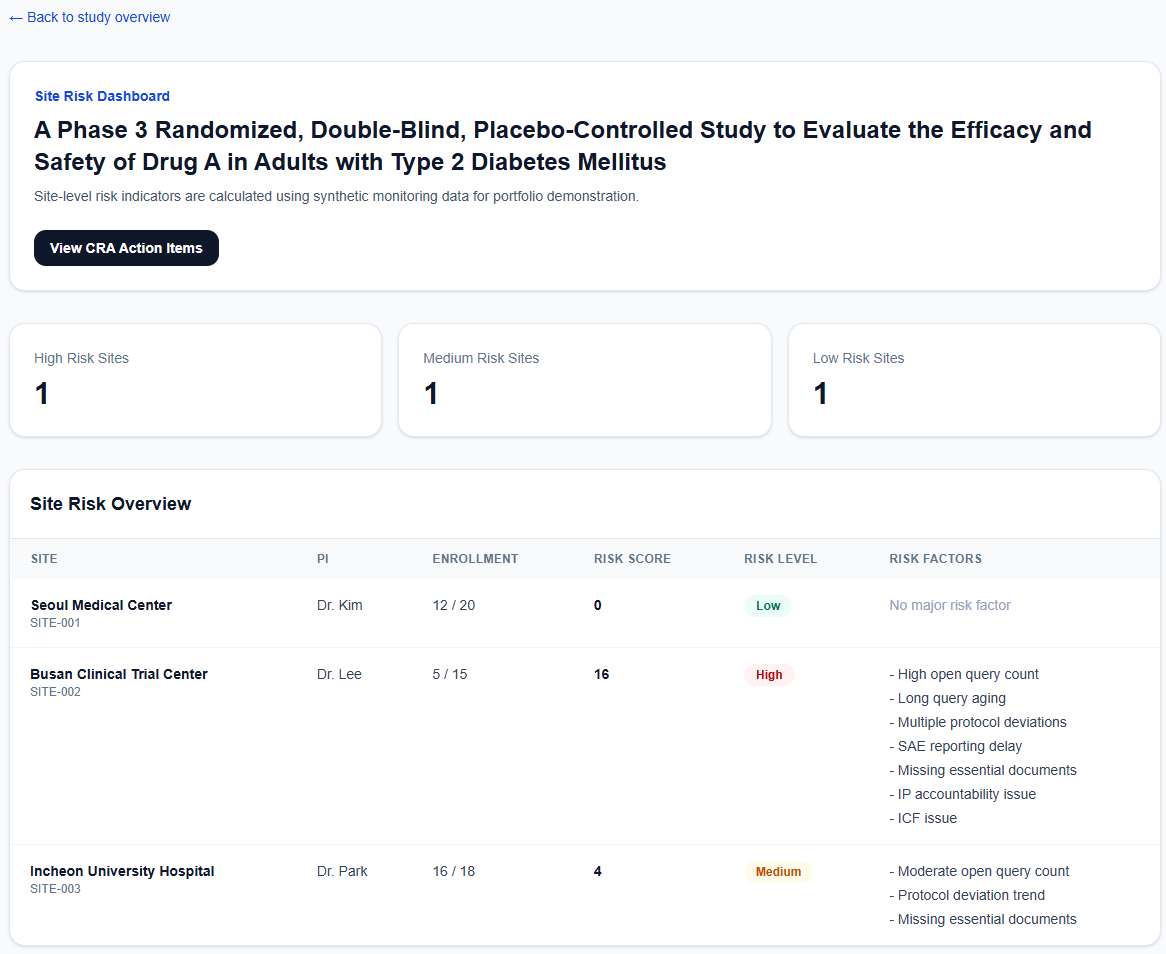
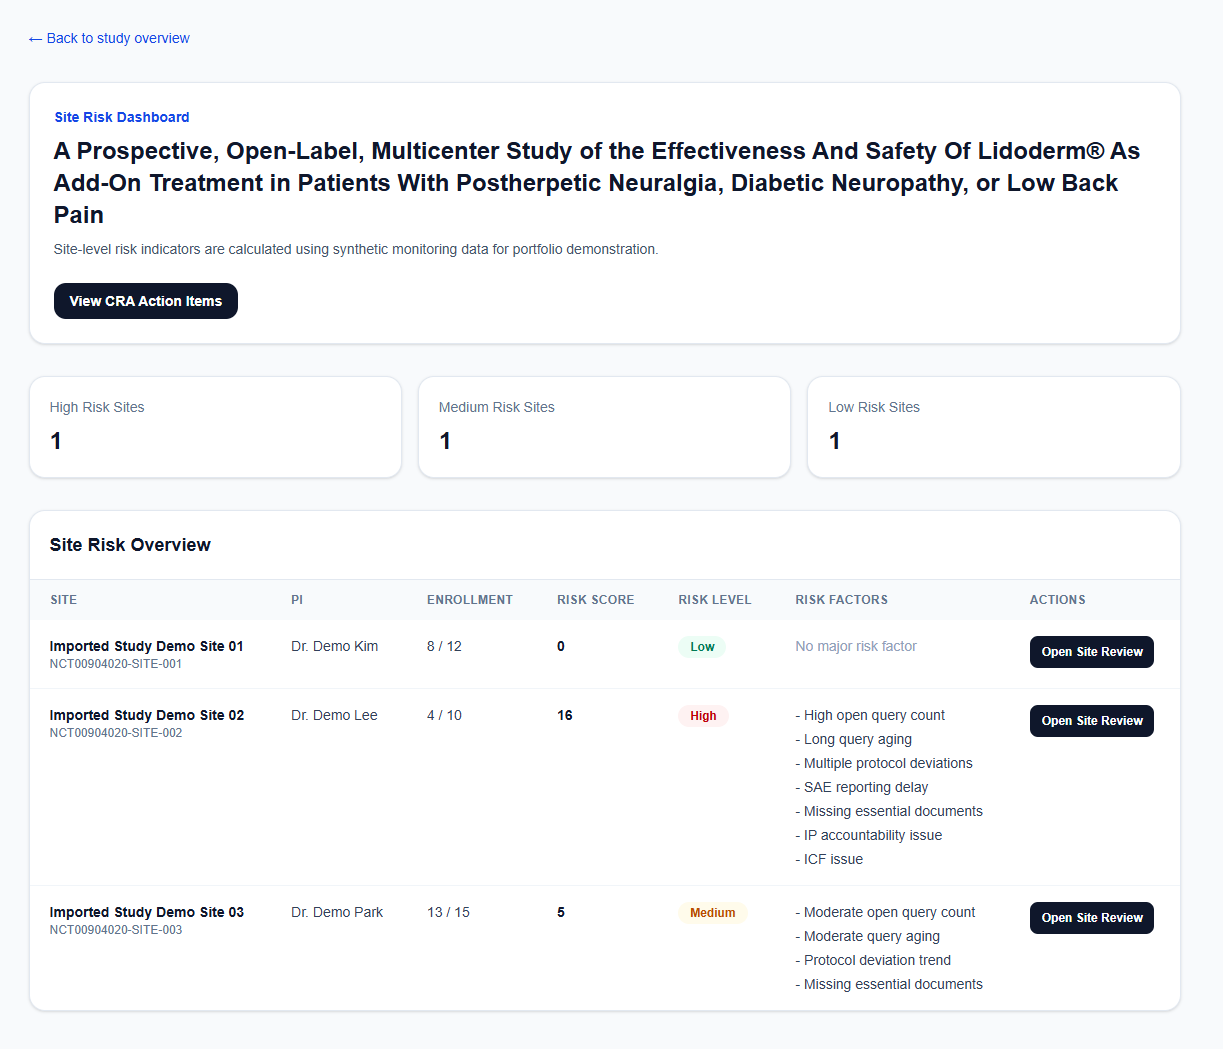
add live demo links and screenshots

diff --git a/frontend/src/app/login/page.tsx b/frontend/src/app/login/page.tsx
@@ -87,6 +87,15 @@ export default function LoginPage() {
 						sign-in.
 					</p>
 
+					<p className="mt-3 rounded-xl border border-slate-200 bg-slate-50 px-4 py-3 text-sm leading-6 text-slate-700">
+						<strong className="font-semibold text-slate-900">
+							New here?
+						</strong>{" "}
+						You can sign up on this page. Enter your email and password above,
+						then click <strong className="font-semibold">Sign up</strong>. If
+						email confirmation is enabled, check your inbox before signing in.
+					</p>
+
 					<form onSubmit={handleSignIn} className="mt-6 space-y-4">
 						<div>
 							<label className="mb-1 block text-sm font-medium text-slate-700">

diff --git a/README.md b/README.md
@@ -6,6 +6,26 @@ It focuses on translating CRA monitoring concepts into structured data workflows
 
 This project connects backend development, data quality management, and clinical research operations by implementing core workflows related to protocol review, site monitoring preparation, query/deviation follow-up, and risk-based monitoring.
 
+## Live Demo
+
+- **Frontend Demo:** https://cra-rbm-assistant.vercel.app
+- **Backend API Docs:** https://cra-rbm-assistant.onrender.com/docs
+
+> **Note:** The backend is hosted on a free tier and may take some time to wake up on the first request after inactivity.
+
+## Deployment
+
+This project is deployed using:
+
+- **Frontend:** Vercel
+- **Backend:** Render
+- **Database/Auth:** Supabase
+
+The frontend and backend are deployed from a monorepo structure by setting separate root directories:
+
+- **Vercel root directory:** `frontend`
+- **Render root directory:** `backend`
+
 ## 1. Project Background
 
 Clinical Research Associates are responsible for supporting clinical trial quality by monitoring protocol compliance, subject safety, data integrity, essential document readiness, investigational product accountability, and site performance.

diff --git a/README_kr.md b/README_kr.md
@@ -6,6 +6,26 @@ CRA 모니터링 개념을 구조화된 데이터 워크플로, 검토 대시보
 
 이 프로젝트는 프로토콜 검토, 사이트 모니터링 준비, 쿼리/일탈 후속 조치, 위험 기반 모니터링(RBM)과 관련된 핵심 워크플로를 구현함으로써 백엔드 개발, 데이터 품질 관리, 임상 연구 운영을 연결합니다.
 
+## Live Demo (라이브 데모)
+
+- **프론트엔드:** https://cra-rbm-assistant.vercel.app
+- **백엔드 API 문서:** https://cra-rbm-assistant.onrender.com/docs
+
+> **참고:** 백엔드는 Render 무료 플랜에 호스팅되어 있습니다. 유휴 상태 후 첫 요청 시 응답까지 시간이 걸릴 수 있습니다(cold start).
+
+## Deployment (배포)
+
+배포 구성:
+
+- **Frontend:** Vercel
+- **Backend:** Render
+- **Database/Auth:** Supabase
+
+모노레포에서 루트 디렉터리를 분리해 프론트엔드와 백엔드를 각각 배포합니다.
+
+- **Vercel root directory:** `frontend`
+- **Render root directory:** `backend`
+
 ## 1. 프로젝트 배경
 
 CRA(Clinical Research Associate)는 프로토콜 준수, 피험자 안전, 데이터 무결성, 필수 문서 준비 상태, 시험용 의약품 관리, 사이트 성과 모니터링을 통해 임상시험 품질을 지원하는 역할을 합니다.